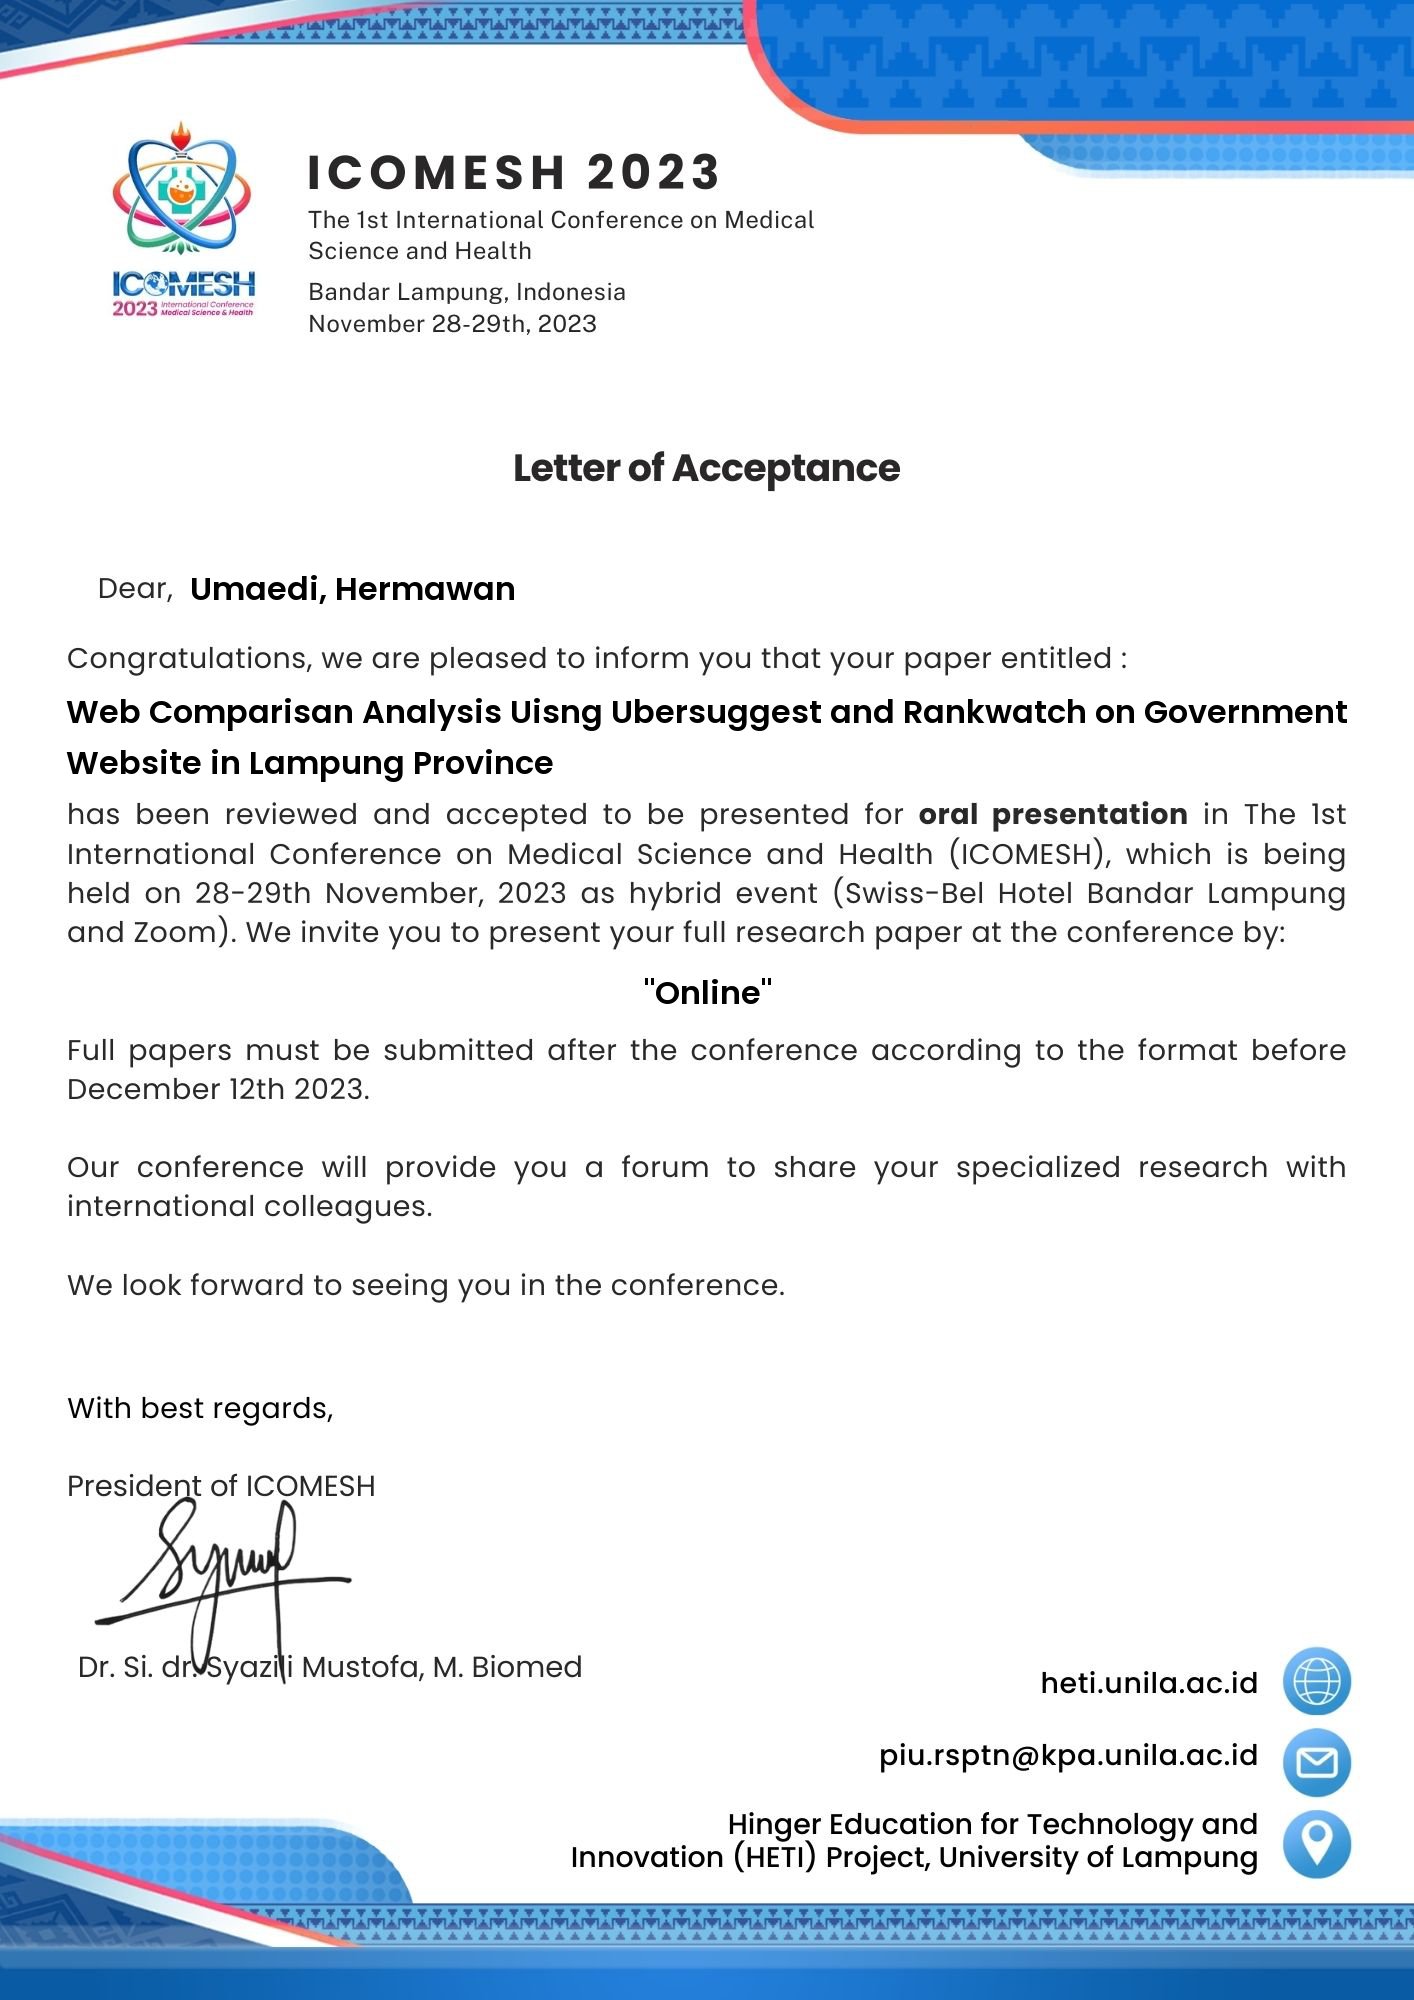
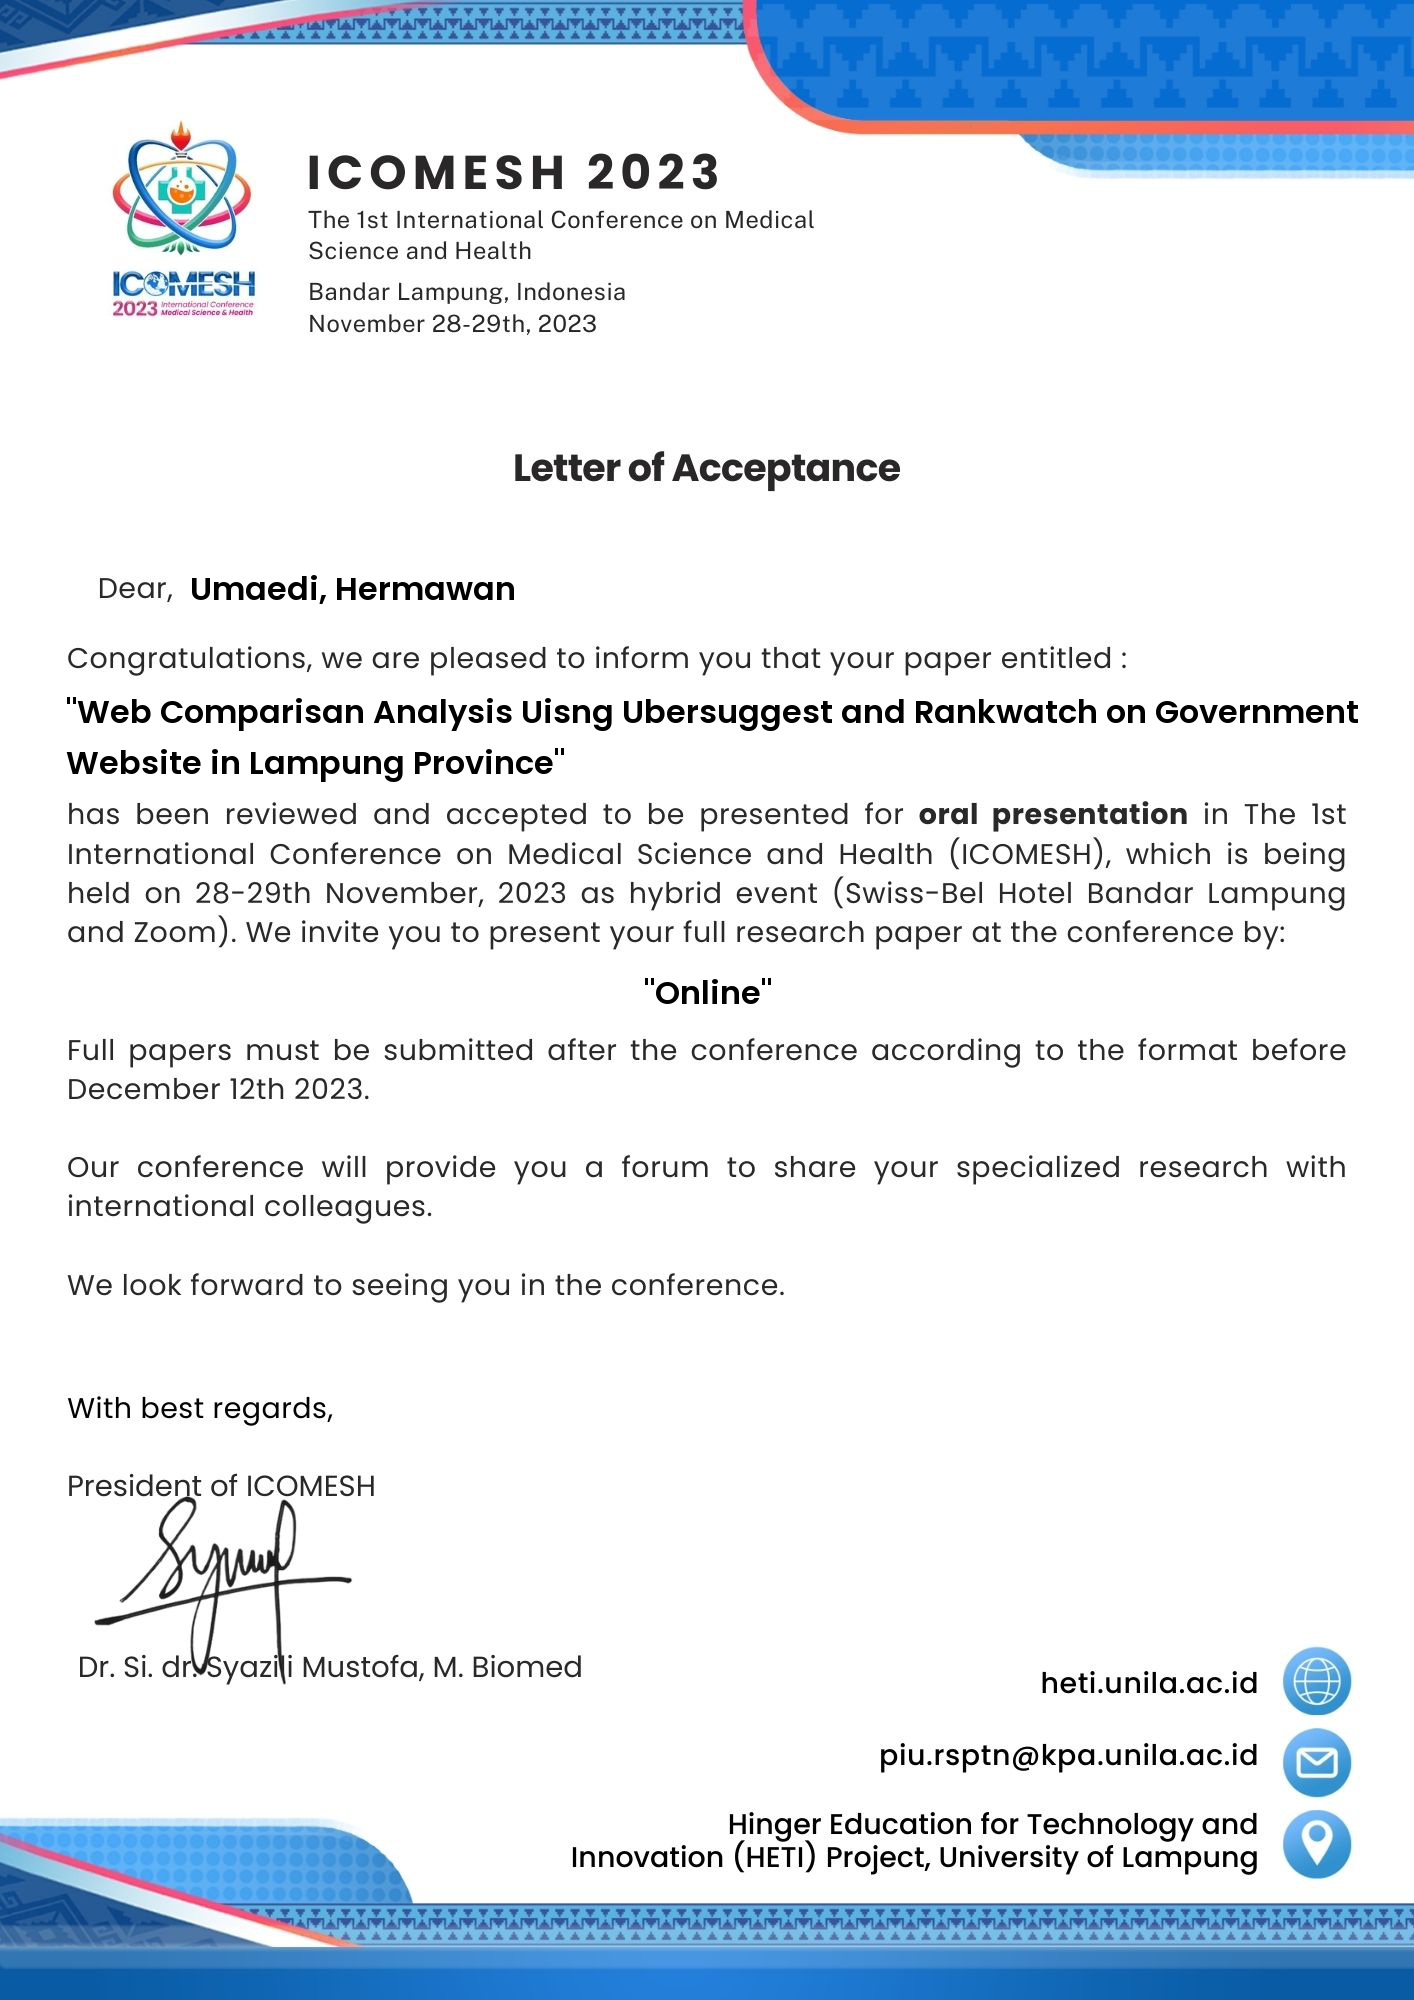
devkh

Changed region(s): [[0.0311, 0.341, 0.9646, 0.372]]

diff --git a/app/Http/Controllers/User/LoaController.php b/app/Http/Controllers/User/LoaController.php
@@ -62,7 +62,7 @@ class LoaController extends Controller
         $presensi_of_image = ($imageWidth - $textWidth1) / 2;
 
         // Add the centered text to the image
-        imagettftext($image, $fontSize, 0, $title_of_image, $position_title, $textColor, $fontPath, $title);
+        imagettftext($image, $fontSize, 0, $title_of_image, $position_title, $textColor, $fontPath, '"' . $title . '"');
 
         imagettftext($image, $fontSize, 0, $presensi_of_image, $position_presence, $textColor, $fontPath, $presensi);
 
